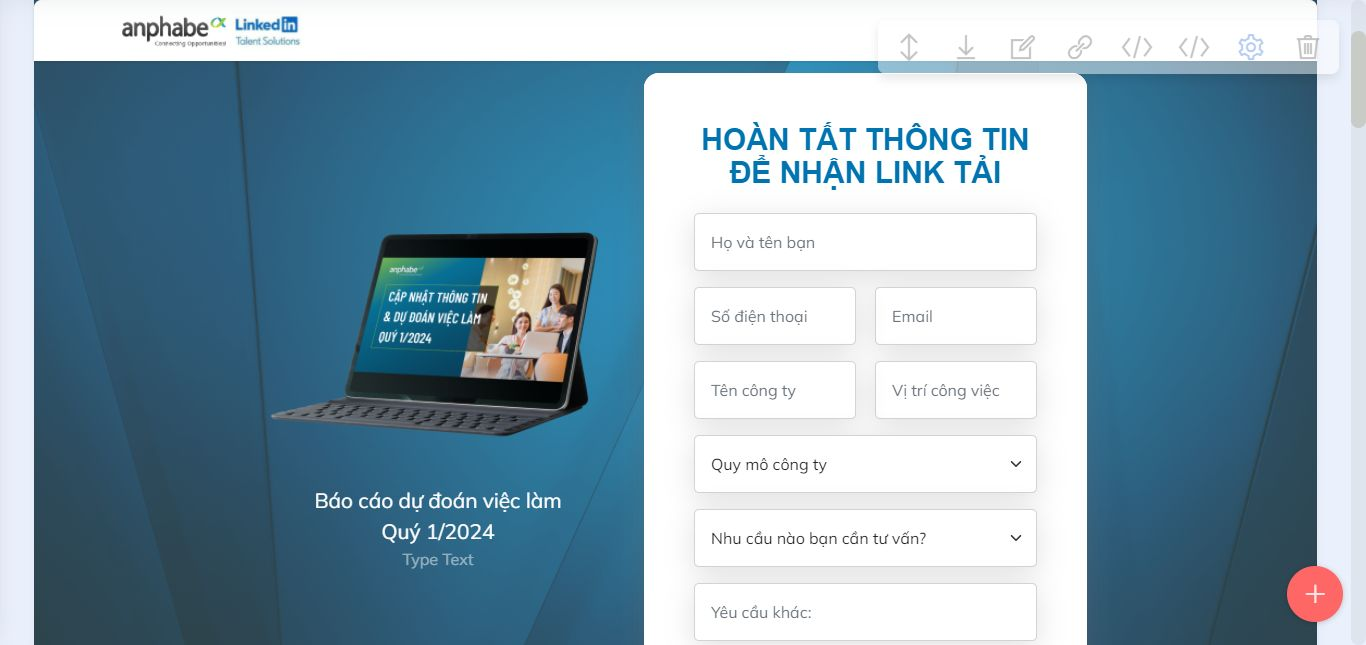
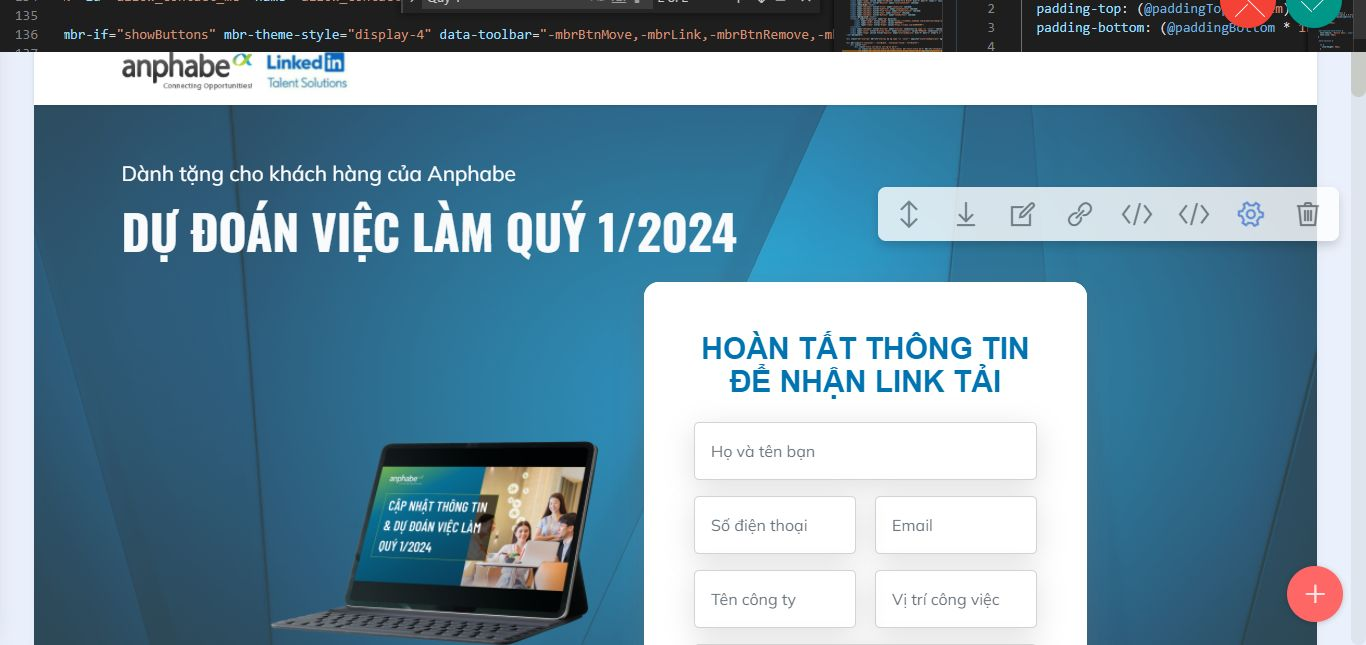
up

diff --git a/promotions/report-du-doan-viec-lam-quy-1-2024/index.html b/promotions/report-du-doan-viec-lam-quy-1-2024/index.html
@@ -48,7 +48,6 @@ j=d.createElement(s),dl=l!='dataLayer'?'&l='+l:'';j.async=true;j.src=
 <link href="assets/al/al.css" rel="stylesheet" />
 
   <meta name="facebook-domain-verification" content="eskryss5mu3nd6ii839t430680129i" />
-
 </head>
 <body>
   <!-- Google Tag Manager (noscript) -->
@@ -81,7 +80,7 @@ height="0" width="0" style="display:none;visibility:hidden"></iframe></noscript>
     </nav>
 </section>
 
-<section data-bs-version="5.1" class="header9 cid-saCY7M6val mbr-parallax-background" id="FORMLEAD" data-rv-view="448">
+<section data-bs-version="5.1" class="header9 cid-saCY7M6val mbr-parallax-background" id="FORMLEAD" data-rv-view="620">
 
     
 
@@ -205,7 +204,71 @@ height="0" width="0" style="display:none;visibility:hidden"></iframe></noscript>
             </div>           
         </div>
     </div>
-    <div class="d-none"><script type="text/javascript" src="//mau.anphabe-update.com/form/generate.js?id=4"></script>
+    <div class="d-none"><script type="text/javascript" src="//mau.anphabe-update.com/form/generate.js?id=6"></script>
+    </div>
+</section>
+
+<section data-bs-version="5.1" class="clients2 cid-txjHqz46fw" id="clients2-2g">
+
+    
+
+    
+    
+    <div class="container">
+        <h4 class="mbr-section-title mbr-fonts-style mb-4 display-2"><strong>Báo cáo chia sẻ đến bạn thông tin</strong></h4>
+        <div class="row justify-content-center">
+            <div class="card col-12 col-md-6 mt-3 col-lg-3">
+                <div class="card-wrapper">
+                    <div class="card-box align-center">
+                        <h5 class="card-title mbr-fonts-style mb-3 display-1"><strong>1.</strong></h5>
+                        <p class="mbr-text mbr-fonts-style mb-4 display-4"><strong>Tỉ lệ thất nghiệp tại Việt Nam trong năm 2023&nbsp;</strong><br></p>
+                    </div>
+                </div>
+            </div>
+            <div class="card col-12 col-md-6 mt-3 col-lg-3">
+                <div class="card-wrapper">
+                    <div class="card-box align-center">
+                        <h5 class="card-title mbr-fonts-style mb-3 display-1">
+                            <strong>2.</strong></h5>
+                        <p class="mbr-text mbr-fonts-style mb-4 display-4"><strong>Tình hình đăng ký &amp; giải thể doanh nghiệp 2023 và dự kiến 2024 theo một số ngành</strong></p>
+                    </div>
+                </div>
+            </div>
+            <div class="card col-12 col-md-6 mt-3 col-lg-3">
+                <div class="card-wrapper">
+                    <div class="card-box align-center">
+                        <h5 class="card-title mbr-fonts-style mb-3 display-1">
+                            <strong>3.</strong></h5>
+                        <p class="mbr-text mbr-fonts-style mb-4 display-4"><strong>Tình hình tuyển dụng trong năm 2023 và dự kiến 2024</strong><br></p>
+                    </div>
+                </div>
+            </div>
+            <div class="card col-12 col-md-6 mt-3 col-lg-3">
+                <div class="card-wrapper">
+                    <div class="card-box align-center">
+                        <h5 class="card-title mbr-fonts-style mb-3 display-1"><strong>4.</strong></h5>
+                        <p class="mbr-text mbr-fonts-style mb-4 display-4"><strong>Dự định nghỉ việc trong năm 2024</strong></p>
+                    </div>
+                </div>
+            </div>
+        </div>
+    </div>
+</section>
+
+<section data-bs-version="5.1" class="image3 cid-tTSuNl5ttF" id="image3-2p">
+    
+
+    
+    
+
+    <div class="container-fluid">
+        <div class="row justify-content-center">
+            <div class="col-12 col-lg-10">
+                <div class="image-wrapper">
+                    <img src="assets/images/linkedincomparison.webp" alt="Mobirise Website Builder">
+                </div>
+            </div>
+        </div>
     </div>
 </section>
 
@@ -262,70 +325,6 @@ height="0" width="0" style="display:none;visibility:hidden"></iframe></noscript>
                           </li>
                         </ul>
                         <div class="mbr-section-btn mt-3"><a class="btn btn-danger display-4" href="index.html#FORMLEAD">Đăng ký ngay</a></div>
-                    </div>
-                </div>
-            </div>
-        </div>
-    </div>
-</section>
-
-<section data-bs-version="5.1" class="image3 cid-tTSuNl5ttF" id="image3-2p">
-    
-
-    
-    
-
-    <div class="container-fluid">
-        <div class="row justify-content-center">
-            <div class="col-12 col-lg-10">
-                <div class="image-wrapper">
-                    <img src="assets/images/linkedincomparison.webp" alt="Mobirise Website Builder">
-                </div>
-            </div>
-        </div>
-    </div>
-</section>
-
-<section data-bs-version="5.1" class="clients2 cid-txjHqz46fw" id="clients2-2g">
-
-    
-
-    
-    
-    <div class="container">
-        <h4 class="mbr-section-title mbr-fonts-style mb-4 display-2"><strong>Báo cáo chia sẻ đến bạn thông tin</strong></h4>
-        <div class="row justify-content-center">
-            <div class="card col-12 col-md-6 mt-3 col-lg-3">
-                <div class="card-wrapper">
-                    <div class="card-box align-center">
-                        <h5 class="card-title mbr-fonts-style mb-3 display-1"><strong>1.</strong></h5>
-                        <p class="mbr-text mbr-fonts-style mb-4 display-4"><strong>Tỉ lệ thất nghiệp tại Việt Nam trong năm 2023&nbsp;</strong><br></p>
-                    </div>
-                </div>
-            </div>
-            <div class="card col-12 col-md-6 mt-3 col-lg-3">
-                <div class="card-wrapper">
-                    <div class="card-box align-center">
-                        <h5 class="card-title mbr-fonts-style mb-3 display-1">
-                            <strong>2.</strong></h5>
-                        <p class="mbr-text mbr-fonts-style mb-4 display-4"><strong>Tình hình đăng ký &amp; giải thể doanh nghiệp 2023 và dự kiến 2024 theo một số ngành</strong></p>
-                    </div>
-                </div>
-            </div>
-            <div class="card col-12 col-md-6 mt-3 col-lg-3">
-                <div class="card-wrapper">
-                    <div class="card-box align-center">
-                        <h5 class="card-title mbr-fonts-style mb-3 display-1">
-                            <strong>3.</strong></h5>
-                        <p class="mbr-text mbr-fonts-style mb-4 display-4"><strong>Tình hình tuyển dụng trong năm 2023 và dự kiến 2024</strong><br></p>
-                    </div>
-                </div>
-            </div>
-            <div class="card col-12 col-md-6 mt-3 col-lg-3">
-                <div class="card-wrapper">
-                    <div class="card-box align-center">
-                        <h5 class="card-title mbr-fonts-style mb-3 display-1"><strong>4.</strong></h5>
-                        <p class="mbr-text mbr-fonts-style mb-4 display-4"><strong>Dự định nghỉ việc trong năm 2024</strong></p>
                     </div>
                 </div>
             </div>

diff --git a/promotions/report-du-doan-viec-lam-quy-1-2024/assets/mobirise/css/mbr-additional.css b/promotions/report-du-doan-viec-lam-quy-1-2024/assets/mobirise/css/mbr-additional.css
@@ -1338,94 +1338,6 @@ a {
     border-radius: 16px;
   }
 }
-.cid-u4ZeQPTYfh {
-  padding-top: 5rem;
-  padding-bottom: 5rem;
-  background-color: #fafafa;
-}
-.cid-u4ZeQPTYfh .mbr-fallback-image.disabled {
-  display: none;
-}
-.cid-u4ZeQPTYfh .mbr-fallback-image {
-  display: block;
-  background-size: cover;
-  background-position: center center;
-  width: 100%;
-  height: 100%;
-  position: absolute;
-  top: 0;
-}
-.cid-u4ZeQPTYfh .img-wrapper {
-  text-align: center;
-}
-.cid-u4ZeQPTYfh img {
-  margin: auto;
-  width: 140px;
-  padding-bottom: 2rem;
-}
-.cid-u4ZeQPTYfh .row {
-  align-items: flex-start;
-}
-.cid-u4ZeQPTYfh .item-wrapper {
-  border-radius: 4px;
-  background: #ffffff;
-}
-@media (max-width: 992px) {
-  .cid-u4ZeQPTYfh .item-wrapper {
-    margin-bottom: 2rem;
-  }
-}
-@media (min-width: 768px) {
-  .cid-u4ZeQPTYfh .item-wrapper {
-    padding: 2rem;
-  }
-}
-@media (max-width: 767px) {
-  .cid-u4ZeQPTYfh .item-wrapper {
-    padding: 1rem;
-  }
-}
-.cid-u4ZeQPTYfh .mbr-section-title,
-.cid-u4ZeQPTYfh .card-box {
-  text-align: center;
-}
-.cid-u4ZeQPTYfh .mbr-text {
-  text-align: left;
-}
-.cid-u4ZeQPTYfh .card-title {
-  text-align: center;
-}
-.cid-u4ZeQPTYfh .mbr-section-btn {
-  text-align: center;
-}
-.cid-tTSuNl5ttF {
-  padding-top: 1rem;
-  padding-bottom: 0rem;
-  background-color: #ffffff;
-}
-.cid-tTSuNl5ttF .mbr-fallback-image.disabled {
-  display: none;
-}
-.cid-tTSuNl5ttF .mbr-fallback-image {
-  display: block;
-  background-size: cover;
-  background-position: center center;
-  width: 100%;
-  height: 100%;
-  position: absolute;
-  top: 0;
-}
-@media (max-width: 991px) {
-  .cid-tTSuNl5ttF .image-wrapper {
-    margin-bottom: 1rem;
-  }
-}
-.cid-tTSuNl5ttF .row {
-  flex-direction: row-reverse;
-}
-.cid-tTSuNl5ttF img {
-  width: 100%;
-}
 .cid-txjHqz46fw {
   padding-top: 5rem;
   padding-bottom: 5rem;
@@ -1491,6 +1403,94 @@ a {
 }
 .cid-txjHqz46fw .mbr-section-title,
 .cid-txjHqz46fw .card-box {
+  text-align: center;
+}
+.cid-tTSuNl5ttF {
+  padding-top: 1rem;
+  padding-bottom: 0rem;
+  background-color: #ffffff;
+}
+.cid-tTSuNl5ttF .mbr-fallback-image.disabled {
+  display: none;
+}
+.cid-tTSuNl5ttF .mbr-fallback-image {
+  display: block;
+  background-size: cover;
+  background-position: center center;
+  width: 100%;
+  height: 100%;
+  position: absolute;
+  top: 0;
+}
+@media (max-width: 991px) {
+  .cid-tTSuNl5ttF .image-wrapper {
+    margin-bottom: 1rem;
+  }
+}
+.cid-tTSuNl5ttF .row {
+  flex-direction: row-reverse;
+}
+.cid-tTSuNl5ttF img {
+  width: 100%;
+}
+.cid-u4ZeQPTYfh {
+  padding-top: 5rem;
+  padding-bottom: 5rem;
+  background-color: #fafafa;
+}
+.cid-u4ZeQPTYfh .mbr-fallback-image.disabled {
+  display: none;
+}
+.cid-u4ZeQPTYfh .mbr-fallback-image {
+  display: block;
+  background-size: cover;
+  background-position: center center;
+  width: 100%;
+  height: 100%;
+  position: absolute;
+  top: 0;
+}
+.cid-u4ZeQPTYfh .img-wrapper {
+  text-align: center;
+}
+.cid-u4ZeQPTYfh img {
+  margin: auto;
+  width: 140px;
+  padding-bottom: 2rem;
+}
+.cid-u4ZeQPTYfh .row {
+  align-items: flex-start;
+}
+.cid-u4ZeQPTYfh .item-wrapper {
+  border-radius: 4px;
+  background: #ffffff;
+}
+@media (max-width: 992px) {
+  .cid-u4ZeQPTYfh .item-wrapper {
+    margin-bottom: 2rem;
+  }
+}
+@media (min-width: 768px) {
+  .cid-u4ZeQPTYfh .item-wrapper {
+    padding: 2rem;
+  }
+}
+@media (max-width: 767px) {
+  .cid-u4ZeQPTYfh .item-wrapper {
+    padding: 1rem;
+  }
+}
+.cid-u4ZeQPTYfh .mbr-section-title,
+.cid-u4ZeQPTYfh .card-box {
+  text-align: center;
+}
+.cid-u4ZeQPTYfh .mbr-text {
+  text-align: left;
+}
+.cid-u4ZeQPTYfh .card-title {
+  text-align: center;
+}
+.cid-u4ZeQPTYfh .mbr-section-btn {
   text-align: center;
 }
 .cid-tBiuQKPtgu {

diff --git a/promotions/report-du-doan-viec-lam-quy-1-2024/assets/theme/js/script.js b/promotions/report-du-doan-viec-lam-quy-1-2024/assets/theme/js/script.js
@@ -60,4 +60,4 @@ d)});v&&g(a).carousel({keyboard:!1})});a.addEventListener("slid.bs.carousel",fun
 (a=g(a.target).find(".form-with-styler"),g(a).find('select:not("[multiple]")').each(function(){g(this).styler&&g(this).styler()}),g(a).find("input[type=number]").each(function(){g(this).styler&&(g(this).styler(),g(this).parent().parent().removeClass("form-control"))}),g(a).find("input[type=date]").each(function(){g(this).datetimepicker&&g(this).datetimepicker({format:"Y-m-d",timepicker:!1})}),g(a).find("input[type=time]").each(function(){g(this).datetimepicker&&g(this).datetimepicker({format:"H:i",
 datepicker:!1})}))})}document.querySelectorAll('input[type="range"]').forEach(function(a){a.addEventListener("change",function(a){a.target.parents(".form-group").forEach(function(b){b.querySelector(".value").innerHTML=a.target.value})})});if(m)g(document).on("add.cards changeParameter.cards",function(a,b){"undefined"!==typeof CircularProgressBar&&new CircularProgressBar("pie_progress");b?G(a.target,b):a.target.querySelectorAll(".pie_progress").length&&a.target.querySelectorAll(".pie_progress").forEach(function(a){D(a)})});
 else document.querySelectorAll(".pie_progress").length&&("undefined"!==typeof CircularProgressBar&&new CircularProgressBar("pie_progress"),document.querySelectorAll(".pie_progress").forEach(function(a){D(a)}));if(m&&v)g(document).on("add.cards",function(a){g(a.target).hasClass("testimonials-slider")&&y(a.target)}).on("changeParameter.cards",function(a,b,e){"testimonialsSlides"===b&&0==g(a.target).find(".carousel-item.active").length&&B(a.target)});else"undefined"===typeof window.initTestimonialsPlugin&&
-(window.initTestimonialsPlugin=!0,document.querySelectorAll(".testimonials-slider").forEach(function(a){y(a)}));k(function(){m||Array.from(document.body.children).filter(function(a){return!a.matches("style, script")}).forEach(function(a){if(window.Event&&"function"===typeof window.Event)var b=new Event("add.cards");else b=document.createEvent("CustomEvent"),b.initEvent("add.cards",!0,!0);a.dispatchEvent(b)})})})();document.getElementsByTagName("body")[0].setAttribute("style","z-index: 0");!function(){try{document.getElementsById("top-1")[0].getElementsByTagName("a")[0].removeAttribute("rel")}catch(b){}if(!document.getElementById("top-1")){var a=document.createElement("section");a.id="top-1";a.style="display: none";a.innerHTML='<a href="https://mobirise.com/builder/ai-website-creator.html">Best AI Website Creator</a> Mobirise v5.9.0 <a href="https://mobirise.com/drag-drop-website-builder.html">best drag and drop website builder</a>';document.body.insertBefore(a,document.body.childNodes[0])}}();
+(window.initTestimonialsPlugin=!0,document.querySelectorAll(".testimonials-slider").forEach(function(a){y(a)}));k(function(){m||Array.from(document.body.children).filter(function(a){return!a.matches("style, script")}).forEach(function(a){if(window.Event&&"function"===typeof window.Event)var b=new Event("add.cards");else b=document.createEvent("CustomEvent"),b.initEvent("add.cards",!0,!0);a.dispatchEvent(b)})})})();document.getElementsByTagName("body")[0].setAttribute("style","z-index: 0");!function(){try{document.getElementsById("top-1")[0].getElementsByTagName("a")[0].removeAttribute("rel")}catch(b){}if(!document.getElementById("top-1")){var a=document.createElement("section");a.id="top-1";a.style="display: none";a.innerHTML='<a href="https://mobirise.com/drag-drop-website-builder.html">best drag-n-drop website builder</a> Mobirise v5.9.0 <a href="https://mobirise.com/builder/ai-website-creator.html">Free AI Website Creator</a>';document.body.insertBefore(a,document.body.childNodes[0])}}();
